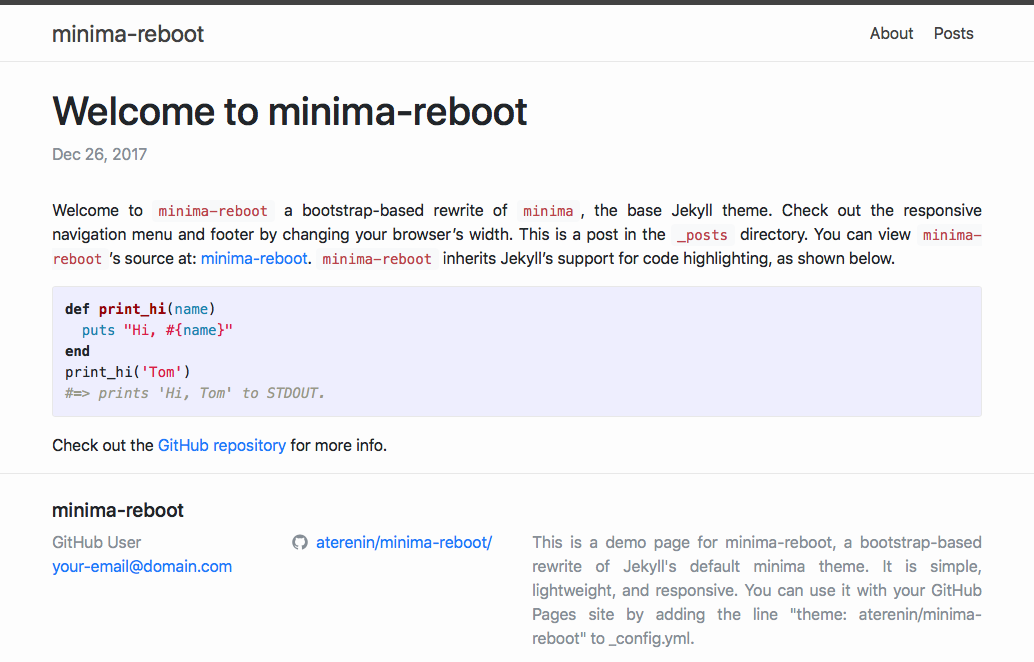
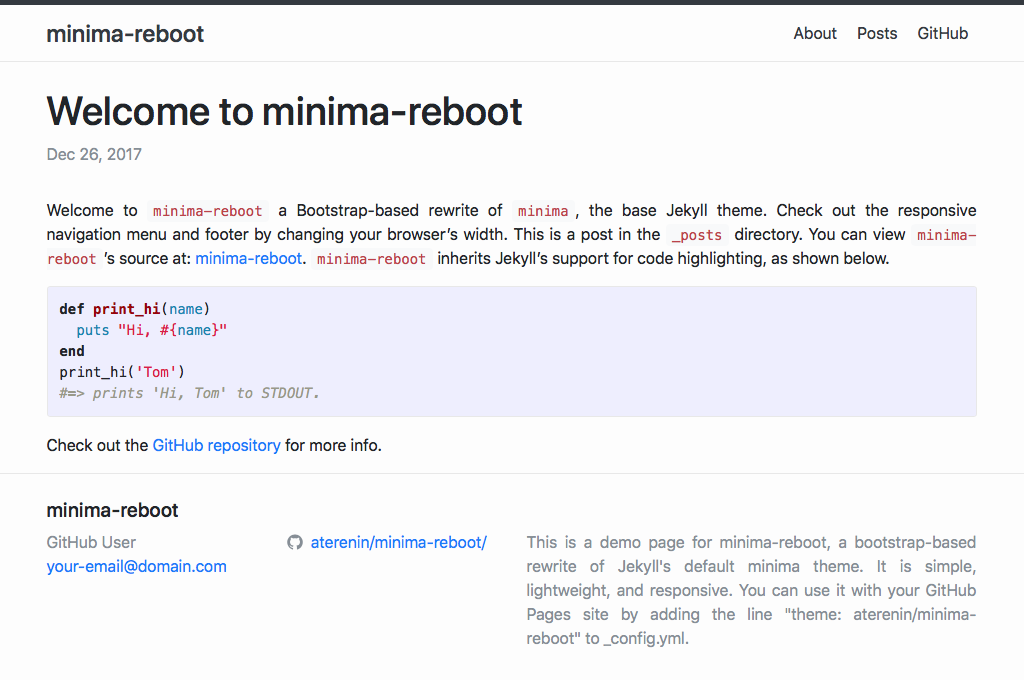
fixed capitalization in preview

diff --git a/_posts/2017-12-26-welcome-to-minima-reboot.md b/_posts/2017-12-26-welcome-to-minima-reboot.md
@@ -3,7 +3,7 @@ layout: post
 title: "Welcome to minima-reboot"
 ---
 
-Welcome to `minima-reboot` a bootstrap-based rewrite of `minima`, the base Jekyll theme. Check out the responsive navigation menu and footer by changing your browser's width. This is a post in the `_posts` directory. You can view `minima-reboot`'s source at: [minima-reboot](https://github.com/aterenin/minima-reboot). `minima-reboot` inherits Jekyll's support for code highlighting, as shown below.
+Welcome to `minima-reboot` a Bootstrap-based rewrite of `minima`, the base Jekyll theme. Check out the responsive navigation menu and footer by changing your browser's width. This is a post in the `_posts` directory. You can view `minima-reboot`'s source at: [minima-reboot](https://github.com/aterenin/minima-reboot). `minima-reboot` inherits Jekyll's support for code highlighting, as shown below.
 
 {% highlight ruby %}
 def print_hi(name)

diff --git a/about.md b/about.md
@@ -4,7 +4,7 @@ title: About
 permalink: /about/
 ---
 
-This is `minima-reboot`, a bootstrap-based rewrite of `minima`, the base Jekyll theme. It is designed to be lightweight, easy-to-use, and responsive.
+This is `minima-reboot`, a Bootstrap-based rewrite of `minima`, the base Jekyll theme. It is designed to be lightweight, easy-to-use, and responsive.
 
 You can find `minima-reboot`'s source code at: [minima-reboot](https://github.com/aterenin/minima-reboot).
 
